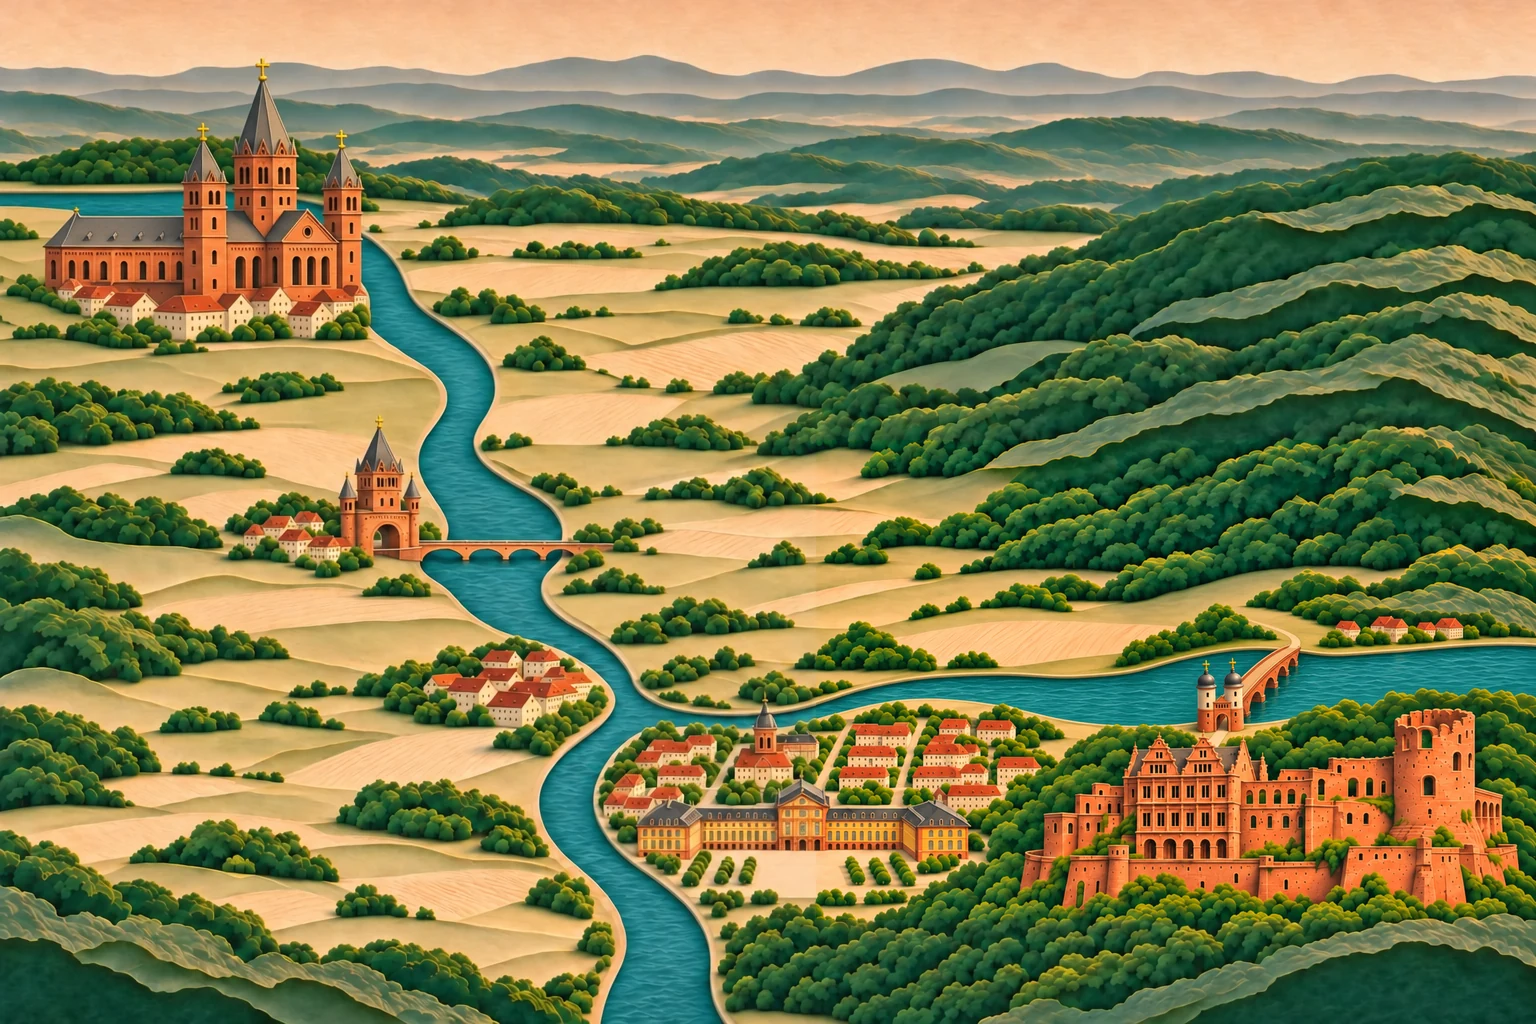
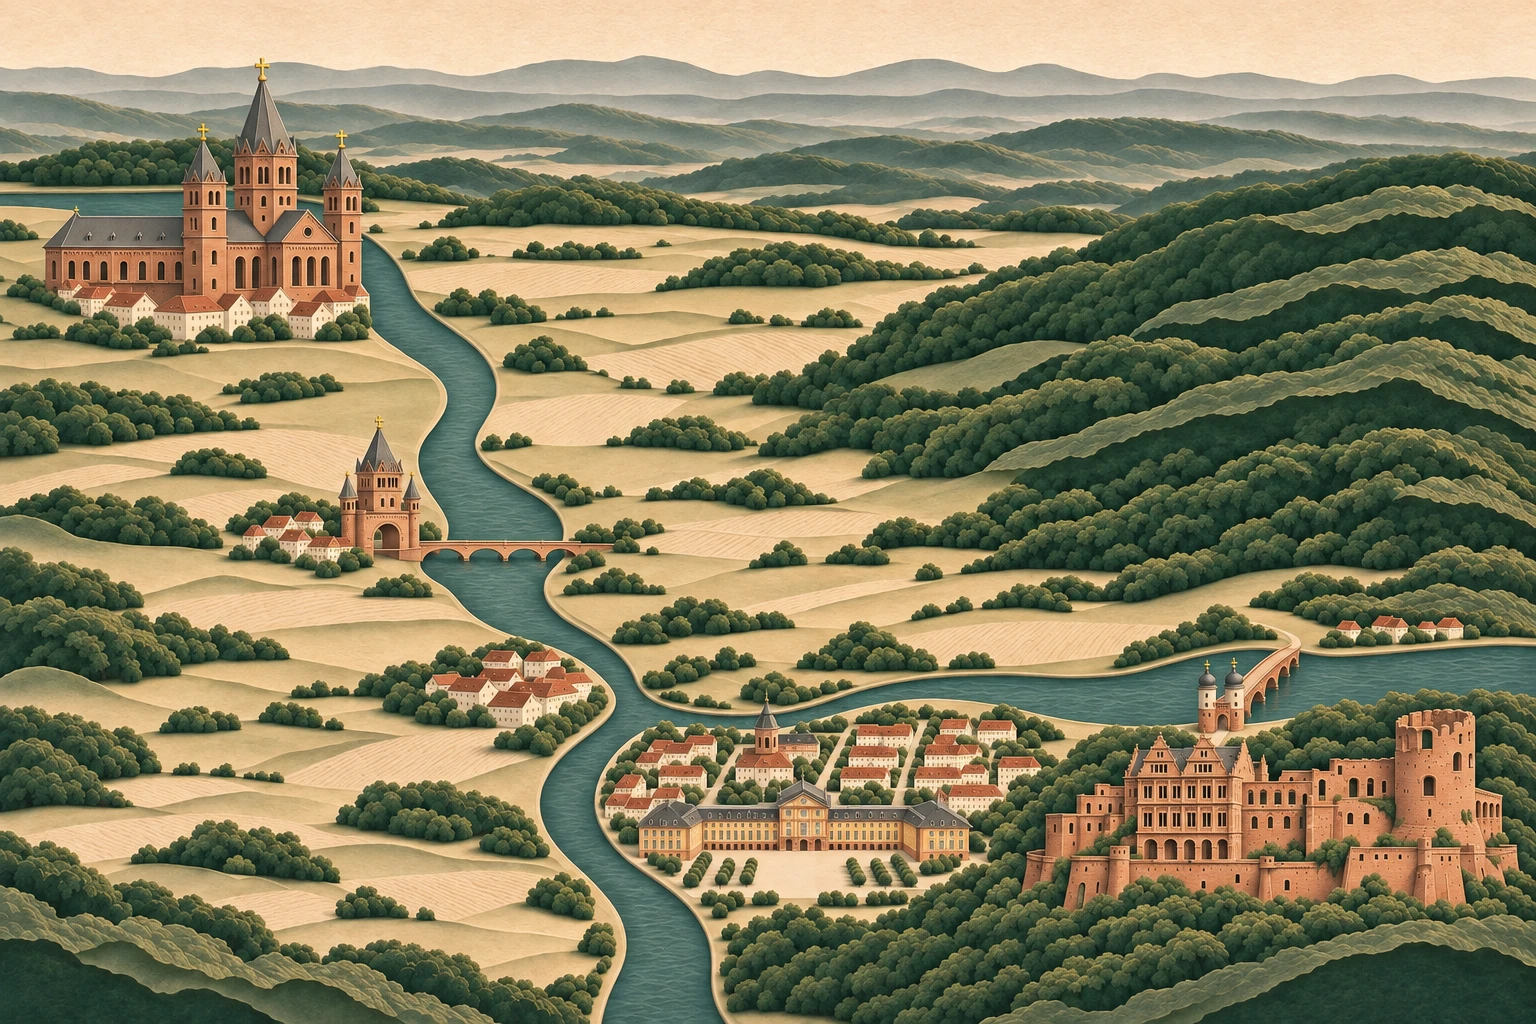
style: match the Rhine-Neckar map to the mountain trail palette

diff --git a/design/paper-miniatures/README.md b/design/paper-miniatures/README.md
@@ -2,7 +2,7 @@
 
 ## Die beiden Referenzen
 
-Die [freigegebene Rhein-Neckar-Karte](references/rhein-neckar.webp) mit der Alten Brücke über den Neckar ist die verbindliche Vorlage für weitere Landschaftsbilder. Sie gibt Landschaft, Kameradistanz und Farbklima vor. Beide Karten zeigen einen hohen Horizont, kleine Ortskerne, gestaffelte Waldkanten und offene Flächen aus hellem Papier. Auf der Regionalkarte prägen der große Dom links oben und das Heidelberger Schloss rechts unten die Silhouette. Die Alte Brücke führt vom Doppeltor am Altstadtufer schräg über den Neckar. Am gegenüberliegenden Ufer geht sie in einen hellen Weg über. Mannheim bildet mit dem Barockschloss, seinem offenen Ehrenhof und den Häuserquadraten den dritten Schwerpunkt. Zwischen Mannheim und Mainz markiert der kleinere Wormser Nibelungenturm eine Rheinquerung am Westufer. Der Neckar erreicht den Rhein am nördlichen Rand der Mannheimer Innenstadt. Ortsnamen stehen im übersetzbaren Seitentext. Die [VorOrt-Fahrradwerkstatt](../../apps/software/app/assets/illustrations/vorort-workshop.webp) übersetzt das ins Alltagsleben.
+Die [freigegebene Rhein-Neckar-Karte](references/rhein-neckar.webp) mit der Alten Brücke über den Neckar ist die verbindliche Vorlage für weitere Landschaftsbilder. Sie gibt Landschaft, Kameradistanz und Maßstab vor. Für das Farbklima ist der Bergpfad die Vorlage. Die [Webfassung der Karte](../../apps/software/app/assets/illustrations/mainz-heidelberg.webp) nutzt diese Palette. Beide Karten zeigen einen hohen Horizont, kleine Ortskerne, gestaffelte Waldkanten und offene Flächen aus hellem Papier. Auf der Regionalkarte prägen der große Dom links oben und das Heidelberger Schloss rechts unten die Silhouette. Die Alte Brücke führt vom Doppeltor am Altstadtufer schräg über den Neckar. Am gegenüberliegenden Ufer geht sie in einen hellen Weg über. Mannheim bildet mit dem Barockschloss, seinem offenen Ehrenhof und den Häuserquadraten den dritten Schwerpunkt. Zwischen Mannheim und Mainz markiert der kleinere Wormser Nibelungenturm eine Rheinquerung am Westufer. Der Neckar erreicht den Rhein am nördlichen Rand der Mannheimer Innenstadt. Ortsnamen stehen im übersetzbaren Seitentext. Die [VorOrt-Fahrradwerkstatt](../../apps/software/app/assets/illustrations/vorort-workshop.webp) übersetzt das ins Alltagsleben.
 
 ## Ein neues Motiv bauen
 
@@ -18,7 +18,7 @@ Drei Entfernungen geben einer Szene Tiefe. Bei VorOrt führt der Blick von der P
 
 ## Umsetzung auf der Website
 
-Für den [Bergpfad](../../packages/ui/src/assets/mountain-trails.webp) steht die Kamera über dem Tal. Dorf, Abzweigungen und Gipfelhütte sind gleichzeitig sichtbar. Baumgruppen und einzelne Felsstufen geben dem Auge einen Maßstab. Große zusammenhängende Papierflächen halten den Verlauf der Pfade auch auf dem Handy lesbar.
+Für den [Bergpfad](../../packages/ui/src/assets/mountain-trails.webp) steht die Kamera über dem Tal. Dorf, Abzweigungen und Gipfelhütte sind gleichzeitig sichtbar. Baumgruppen und einzelne Felsstufen geben dem Auge einen Maßstab. Wälder bestehen aus mattem Flaschengrün und Oliv, Wasser aus gedecktem graugrünem Petrol. Felder und helle Flächen verwenden warme Hafer- und Papiertöne, Dächer und Mauerwerk gedecktes Terrakotta. Große zusammenhängende Papierflächen halten den Verlauf der Pfade auch auf dem Handy lesbar.
 
 Beim [Palamedes-Globus](../../apps/opensource/app/assets/illustrations/palamedes-globe.webp) liegen zwei Korrekturabzüge versetzt im Vordergrund. Wörterbücher, Postfächer und das seitliche Fenster machen den Raum als Übersetzungsbüro erkennbar. Das Sprachband am Globus und die verschiedenen Schriften verbinden ihn mit der Übersetzungsarbeit. Für [Ferramenta](../../apps/opensource/app/assets/illustrations/ferramenta-tools.webp) erzählt der offene Werkzeugkasten von der Familie spezialisierter Werkzeuge. Das [Originalzeichen](../../packages/ui/src/assets/ferramenta-mark.webp) steht separat beim Namen.
 
@@ -39,3 +39,9 @@ Die frühere Blender-Idee mit Metall, Glas, Eiche oder Walnuss und einem Beerent
 ## Bildbearbeitung für das Radio
 
 > Edit this reference photograph of an intricate handcrafted miniature paper tabletop radio opened like a book, fixing only the perforated speaker grille. Preserve the almost straight-on camera, wide 2:1 landscape crop, all existing composition, sage petrol-green and warm ivory palette, exact left circuit board, cream wires, hinge, oversized ivory dial at right, workshop tabletop, background, light and crisp paper texture. Replace the dark punctures and dirty mottling on the right green face with a mechanically regular clean rectangular array of round laser-cut holes on a perfectly flat matte dark-green panel. Each hole has a clean round edge and consistent dark interior, with uniform spacing and fully intact green material between holes. All dark shading stays strictly inside the holes. No stray black dots, burns, tearing, scorch marks, scratches, glue marks or stains. No writing or new objects. Retain the original professional editorial product-photography feel with cut paper fibers and physically grounded light. Keep a wide 2:1 framing with the entire radio and both matching feet fully inside the central intended safe frame.
+
+## Farbangleichung für die Rhein-Neckar-Karte
+
+Die freigegebene Karte war das zu bearbeitende Bild. Der Bergpfad gab die Farben vor. Das Newsletter-Motiv ergänzte die Referenz für Flaschengrün und Papier.
+
+> INPUT 1 is the commissioned final Rhine-Neckar miniature map to edit. INPUT 2 is the approved companion mountain-path landscape and the exact color reference; INPUT 3 is a supporting reference for its warm ivory paper and matte bottle-green. Perform a restrained COLOR GRADE ONLY on INPUT 1, with very high fidelity to its complete existing design. Produce the same image, same pixels' subject and positions, aspect 3:2. Never redraw or reinterpret any geographic feature, change viewpoint or move, remove, add or resize trees, hills, notable buildings or bridges. Preserve the Mainz cathedral upper left, single north/south Rhine, single Neckar approaching from the right and flowing into the Rhine near Mannheim, Worms bridge and tower, Mannheim's palace in the lower center, Heidelberg Castle lower right, and Heidelberg's Old Bridge crossing the Neckar immediately behind the castle. Keep all precisely in bounds as in the original, keep its high horizon and fine texture. Selective hue and saturation matching: replace the bright cool blue-green and yellow-green of the woods with the muted bottle and olive-sage green from INPUT 2, where dark shades are roughly #243c30 through #405541 and sunlit leaves muted #667052, while maintaining all original tonal shading and individual texture. Match INPUT 2's subdued grey-green petrol river around #45686a and #627e76; match paper meadow and sky to its oat and warm parchment, no orange sunset cast; reduce vivid orange on landmark masonry to warm dusty terracotta with pale paper highlights like its houses. Keep contrast and separation of materials, keep greenery recognizable as green, retain light highlights. No global sepia filter, no teal or orange accent, no changed composition, no new text, no artistic reinterpretation. This is a companion piece to INPUT 2, with the exact palette and restraint of its colors. Output only the polished edited map.
